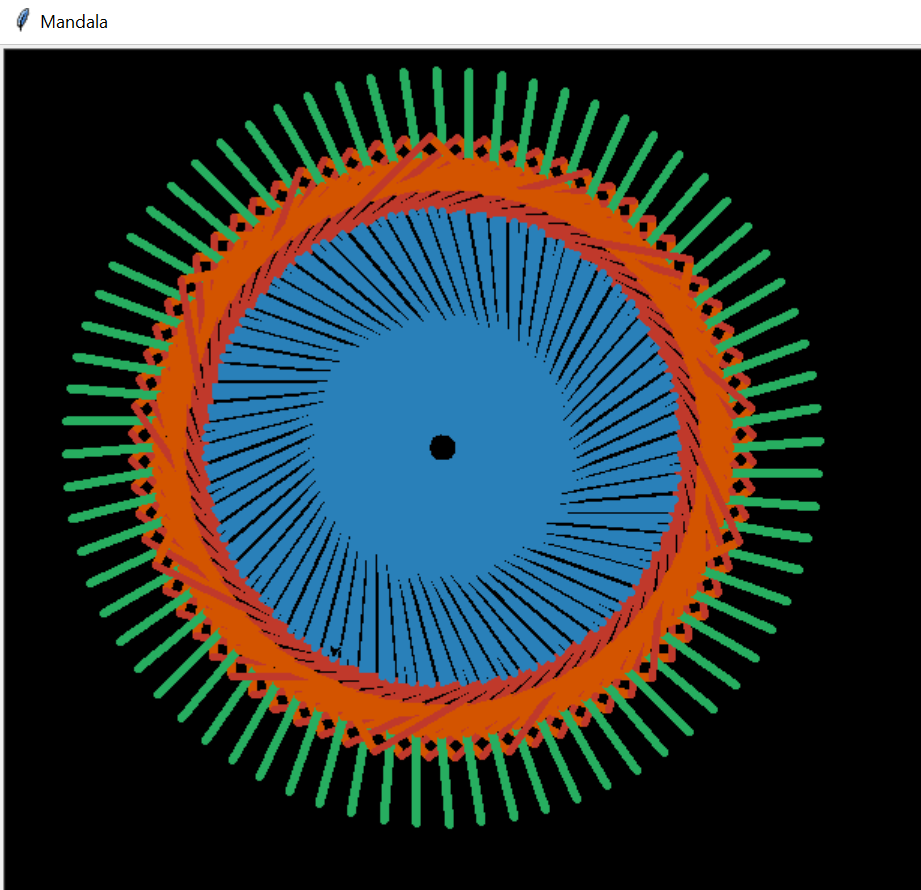
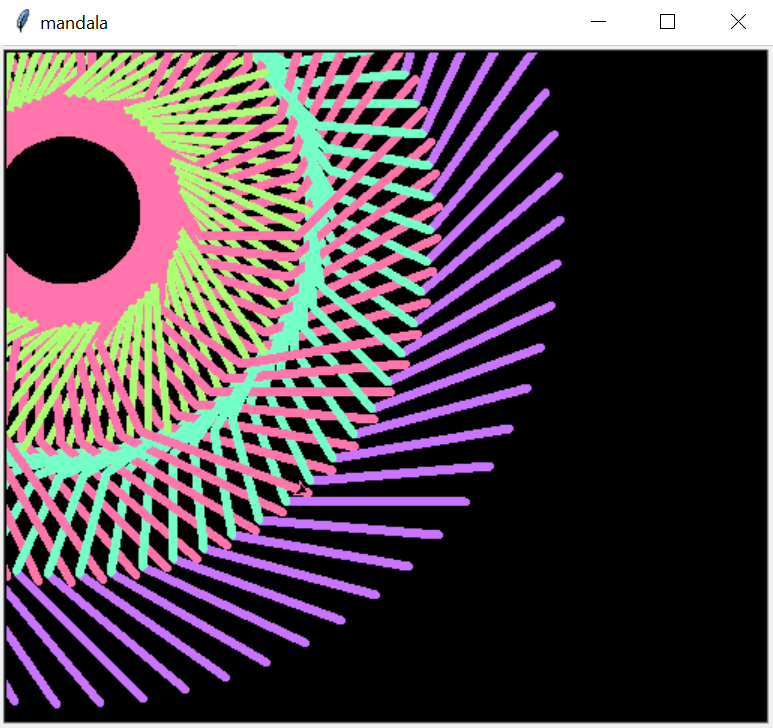
spirograph

diff --git a/mandala.py b/mandala.py
@@ -1,25 +1,17 @@
 # https://github.com/ythecombinator/python-homework
 
 # Here we intend to create a simple different star which have two colors.
-
 # It should use the turtle module
 import turtle
-
 # Let's give it a name.
 mandala = turtle.Turtle()
-
-# We'll use this to exitonclick().
-window = turtle.Screen()
-
 # A random  name.
 turtle.title("mandala")
-
 # Set a dark color for the background.
 turtle.bgcolor("black")
-
 # Set the fastest speed
 mandala.speed(10)
-
+mandala.hideturtle()
 # Define the number of iterations
 n = 100
 
@@ -33,20 +25,21 @@ def drawMandala(n):
       turtle.left(90)
       turtle.penup()
       turtle.forward (30)
-      turtle.left (90)
+      turtle.left (110)
       turtle.pendown()
-      turtle.pencolor ("#27ae60")
-      turtle.forward (60)
-      turtle.pencolor("#d35400")
+      turtle.pencolor ("#c874ff")
+      turtle.forward (120)
+      turtle.pencolor("#74ffc8")
       turtle.right (70)
       turtle.forward (70)
       turtle.right (40)
       turtle.forward (50)
-      turtle.pencolor ("#c0392b")
-      turtle.left (90)
+      turtle.pensize(1)
+      turtle.pencolor ("#abff74")
+      turtle.left (60)
       turtle.pensize(5)
       turtle.forward (100)
-      turtle.pencolor("#2980b9")
+      turtle.pencolor("#ff74ab")
       turtle.left(90)
       turtle.forward (100)
       turtle.right (50)
@@ -58,8 +51,8 @@ def drawMandala(n):
       turtle.left (45)
       turtle.forward (120)
 
+
+
+
 # Perform the main fucntion
 drawMandala(n)
-
-# Exit on user click.
-window.exitonclick()

diff --git a/heliosphere.py b/heliosphere.py
@@ -1,0 +1,28 @@
+# Import the turtle library for
+# drawing the required curve
+import turtle as spiro
+spiro.title("spirograph")
+# Set the background color as black,
+# pensize as 2 and speed of drawing
+# curve as 10(relative)
+spiro.bgcolor('black')
+spiro.pensize(2)
+spiro.speed(10)
+
+# Iterate six times in total
+for i in range(600):
+
+    # Choose your color combination
+    for color in ('#875487', '#5c94ff', '#6597e6',
+                  '#ee6d73', '#975eff', '#9d60ef',
+                  '#f445a6'):
+        spiro.color(color)
+
+        # Draw a circle of chosen size, 100 here
+        spiro.circle(100)
+
+        # Move 10 pixels left to draw another circle
+        spiro.left(10)
+
+        # Hide the cursor(or turtle) which drew the circle
+    spiro.hideturtle()

diff --git a/README.md b/README.md
@@ -12,6 +12,9 @@ one way to install tkinter:
 from there, run a file and enjoy as the drawing takes shape.
 
 ## drawings
+<strong>[spirograph](https://www.geeksforgeeks.org/print-a-spirograph-using-turtle-in-python/)</strong>  
+<img src="spirograph.PNG" height="450" alt="spirograph">
+
 <strong>[rainbow benzene](https://www.codium.co.in/2020/07/rainbow-benzene-tutorial-turtle-python.html)</strong>  
 <img src="rainbow-benzene.PNG" height="450" alt="rainbow benzene">
 
